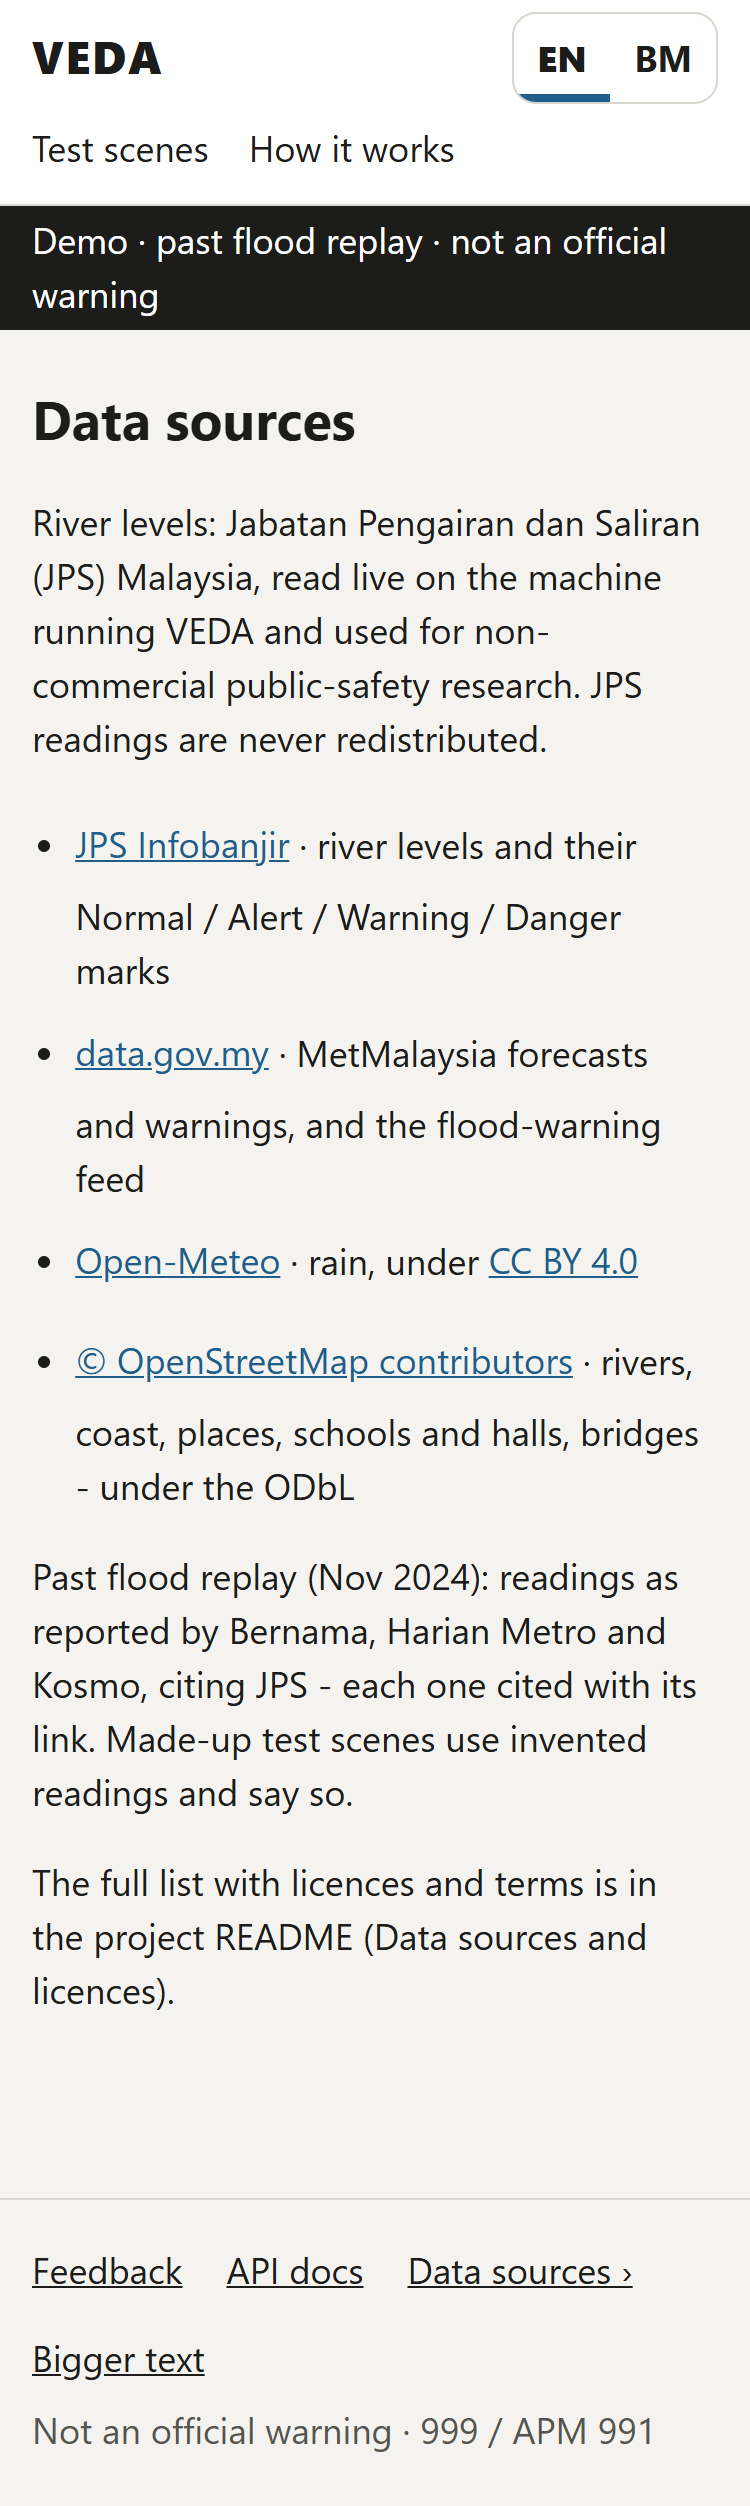
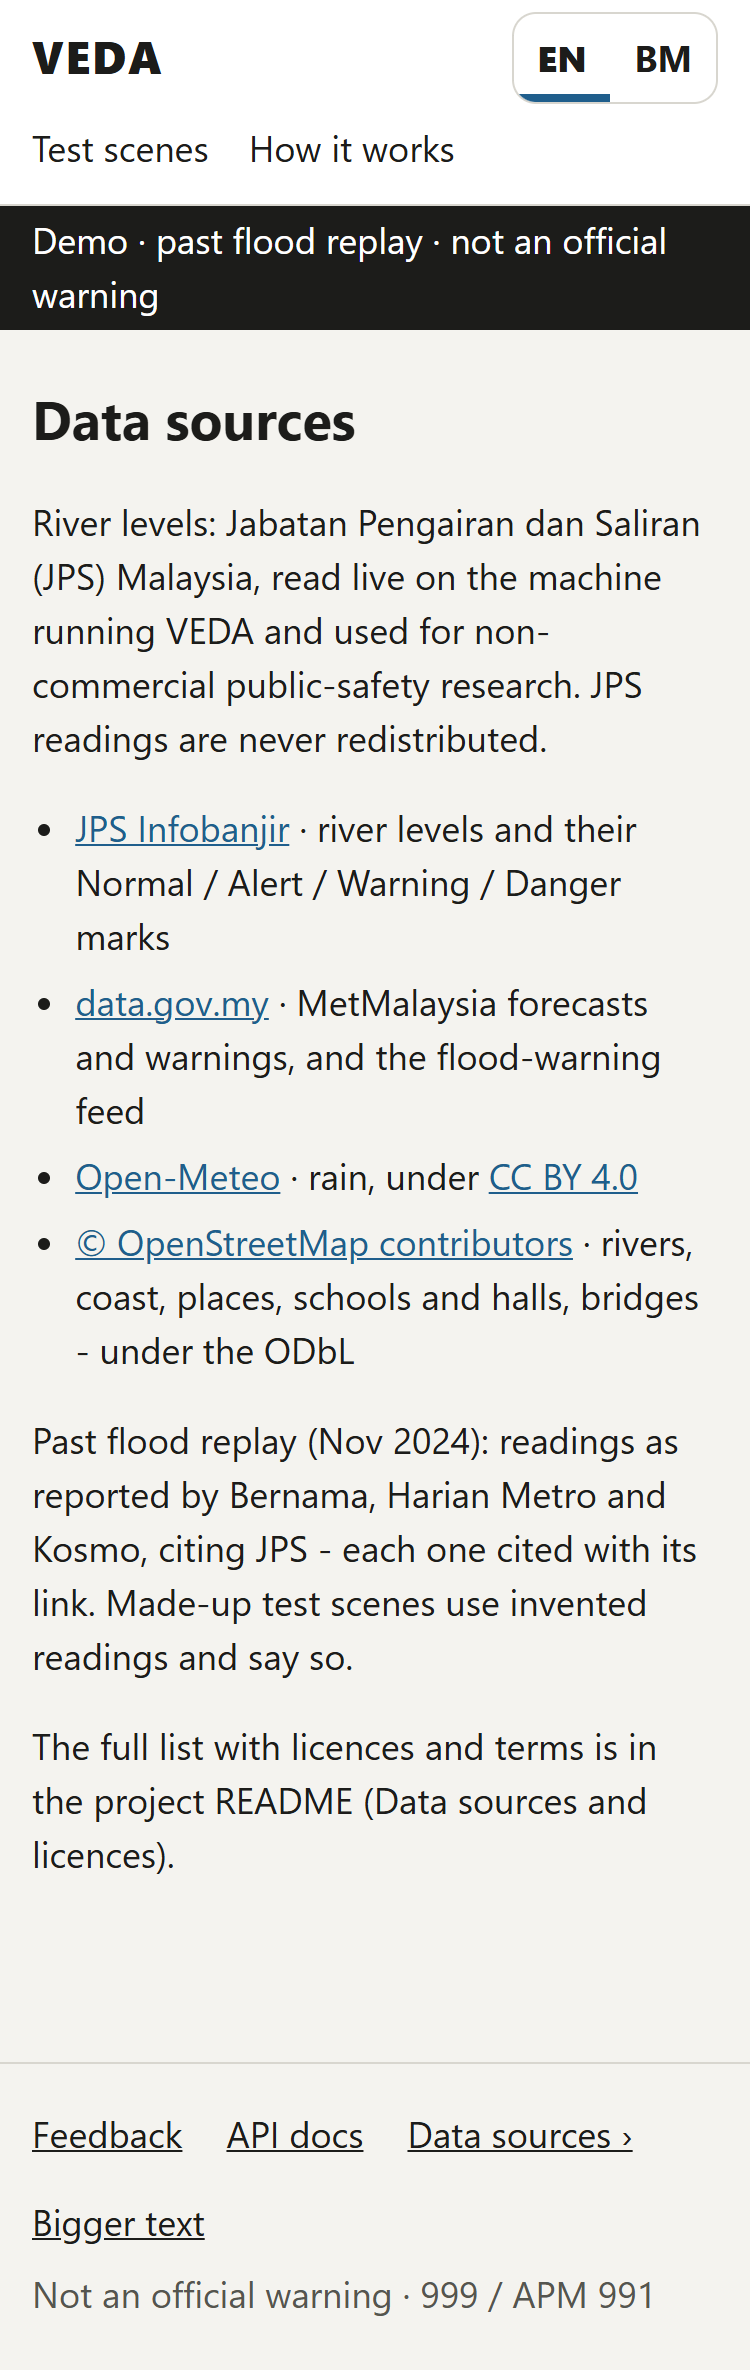
fix: B-96 /live: Live · Replay and 1× · 4× as segmented controls (selected bold + outlined, nothing filled); demo opens in Replay on the 24 Oct 20:10 Wakaf Bharu run, waiting for Play, with "Press play to watch each agent step, recorded live"; controls above the panels; BM "· Tukar" never breaks; /s
Local before commit: 1068 passed, 13 skipped; evals 41/41.

diff --git a/app/web/live.html b/app/web/live.html
@@ -25,7 +25,10 @@
   .lhead h1 { font-size: 1.2rem; margin: 0 auto 0 0; }
   button, select { font: inherit; min-height: 44px; padding: 8px 12px; border-radius: 10px; border: 1px solid var(--line);
                    background: var(--card); color: var(--fg); cursor: pointer; }
-  button[aria-pressed="true"] { background: var(--accent); color: var(--on-accent); border-color: var(--accent); }
+  /* B-96: a selected choice is bold + outlined, never filled - /live has no filled button */
+  button[aria-pressed="true"] { border: 3px solid var(--accent); font-weight: 800; }
+  .seg2 { display: inline-flex; gap: 6px; }
+  .hint { margin: 0 0 10px; font-weight: 600; }
   .wrap { display: grid; grid-template-columns: minmax(0, 1fr) 280px; gap: 16px; max-width: 1200px; margin: 0 auto; padding: 16px; }
   @media (max-width: 860px) { .wrap { grid-template-columns: 1fr; } aside { order: -1; } }
   .controls { display: flex; flex-wrap: wrap; gap: 8px; align-items: center; margin-bottom: 12px; }
@@ -65,6 +68,9 @@
   .note { color: var(--muted); }
   [hidden] { display: none !important; }
   main, aside { min-width: 0; }   /* B-96: no sideways scroll on a phone */
+  .top { max-width: 1200px; margin: 0 auto; padding: 16px 16px 0; }
+  .top .controls { margin-bottom: 8px; }
+  .controls select { min-width: 0; width: 100%; }
   #rec { max-width: 100%; }
 </style>
 </head>
@@ -75,15 +81,22 @@
   <h1>VEDA · live log</h1>
   <span class="note" id="h-note">The question itself is never shown here.</span>
 </div>
+<!-- B-96: the controls first on every width (in the demo, Play is what a visitor needs) -->
+<div class="top">
+  <div class="controls">
+    <span class="seg2" role="group" aria-label="Live or replay">
+      <button type="button" id="b-live" aria-pressed="true">Live</button>
+      <button type="button" id="b-replay" aria-pressed="false">Replay</button></span>
+    <select id="rec" aria-label="Recorded run" hidden></select>
+    <span class="seg2" role="group" aria-label="Speed" id="speeds" hidden>
+      <button type="button" data-speed="1" aria-pressed="true">1×</button>
+      <button type="button" data-speed="4" aria-pressed="false">4×</button></span>
+    <button type="button" id="b-play" hidden>Play ▶</button>
+  </div>
+  <p class="hint" id="hint" hidden></p>
+</div>
 <div class="wrap">
   <main>
-    <div class="controls">
-      <button type="button" id="b-live" aria-pressed="true">Live</button>
-      <select id="rec" aria-label="Recorded run"><option value="">Replay a recorded run…</option></select>
-      <button type="button" data-speed="1" aria-pressed="true">1×</button>
-      <button type="button" data-speed="4" aria-pressed="false">4×</button>
-      <button type="button" id="b-play" hidden>Play</button>
-    </div>
     <p id="status" role="status" aria-live="polite"></p>
     <p class="note" id="rnote" hidden></p>
     <ol id="feed"></ol>
@@ -99,15 +112,18 @@
 const $ = (id) => document.getElementById(id);
 // The two public header lines follow the main page's EN | BM toggle (wording review 24 Oct); the log stays English.
 const HEAD = {
-  en: { note: "The question itself is never shown here.",
+  en: { hint: "Press play to watch each agent step, recorded live.",
+        note: "The question itself is never shown here.",
         waiting: "Waiting for a question… Ask one on VEDA's main page and every step appears here as it happens." },
-  ms: { note: "Soalan itu sendiri tidak pernah ditunjukkan di sini.",
+  ms: { hint: "Tekan main untuk melihat setiap langkah ejen, dirakam secara langsung.",
+        note: "Soalan itu sendiri tidak pernah ditunjukkan di sini.",
         waiting: "Menunggu soalan… Tanya di halaman utama VEDA dan setiap langkah akan muncul di sini ketika ia berlaku." },
 };
 const pageLang = () => { try { return localStorage.getItem("veda.lang") === "ms" ? "ms" : "en"; } catch (e) { return "en"; } };
 function applyHeadLang() {
   const h = HEAD[pageLang()];
   $("h-note").textContent = h.note; $("h-note").lang = pageLang();
+  $("hint").textContent = h.hint; $("hint").lang = pageLang();
   if (Object.values(HEAD).some((x) => x.waiting === $("status").textContent)) $("status").textContent = h.waiting;
 }
 window.addEventListener("storage", (e) => { if (e.key === "veda.lang") applyHeadLang(); });
@@ -206,8 +222,8 @@ function add(rec) {
 // ---------- live ----------
 function goLive() {
   stopReplay();
-  mode = "live"; $("b-live").setAttribute("aria-pressed", "true"); $("rec").value = ""; $("rnote").hidden = true;
-  $("b-play").hidden = true;
+  mode = "live"; pressMode(); $("rnote").hidden = true;
+  $("b-play").hidden = true; $("hint").hidden = true;
   $("feed").replaceChildren(); whoPanel();
   $("status").textContent = HEAD[pageLang()].waiting;
   if (source) source.close();
@@ -218,13 +234,25 @@ function goLive() {
 
 // ---------- replay of a recorded run (its own timestamps; Nemotron calls wait as long as they took) ----------
 function stopReplay() { clearTimeout(timer); timer = null; clearWait(); }
-function loadRecorded(records, note) {
+function pressMode() {          // Live · Replay: the replay's run list and speed show only in Replay
+  $("b-live").setAttribute("aria-pressed", String(mode === "live"));
+  $("b-replay").setAttribute("aria-pressed", String(mode === "replay"));
+  $("rec").hidden = $("speeds").hidden = mode !== "replay";
+}
+function loadRecorded(records, note, wait) {
   if (source) { source.close(); source = null; }
   stopReplay();
-  mode = "replay"; $("b-live").setAttribute("aria-pressed", "false");
+  mode = "replay"; pressMode();
   recorded = records; $("b-play").hidden = false;
   $("rnote").hidden = !note; $("rnote").textContent = note ? "Recorded run: " + note : "";
+  $("hint").hidden = !wait;
+  if (wait) { $("feed").replaceChildren(); whoPanel(); $("status").textContent = ""; return; }   // demo: press Play
   play();
+}
+async function loadChosen(wait) {
+  if (!$("rec").value) return;
+  const r = await fetch("/trace/recorded/" + encodeURIComponent($("rec").value)).then((x) => x.json());
+  loadRecorded(r.records || [], r.note, wait);
 }
 function play() {
   stopReplay();
@@ -245,26 +273,27 @@ function play() {
 }
 
 $("b-live").addEventListener("click", goLive);
-$("b-play").addEventListener("click", () => recorded && play());
+$("b-play").addEventListener("click", () => { $("hint").hidden = true; if (recorded) play(); });
+$("b-replay").addEventListener("click", () => loadChosen(true));
 function setSpeed(s) {
   speed = s === 4 ? 4 : 1;
   document.querySelectorAll("[data-speed]").forEach((x) => x.setAttribute("aria-pressed", String(Number(x.dataset.speed) === speed)));
 }
 document.querySelectorAll("[data-speed]").forEach((b) => b.addEventListener("click", () => setSpeed(Number(b.dataset.speed))));
-$("rec").addEventListener("change", async () => {
-  if (!$("rec").value) { goLive(); return; }
-  const r = await fetch("/trace/recorded/" + encodeURIComponent($("rec").value)).then((x) => x.json());
-  loadRecorded(r.records || [], r.note);
-});
+$("rec").addEventListener("change", () => loadChosen(true));
 
 whoPanel();
-fetch("/trace/recorded").then((r) => r.json()).then((list) => {
+// B-96: the run a judge should see first - the Critic asking the Data agent for more data (Wakaf Bharu, 24 Oct 20:10)
+const FEATURED = "20261024-201011";
+const listed = fetch("/trace/recorded").then((r) => r.json()).then((list) => {
   list.forEach((x) => {
     const o = document.createElement("option");
     o.value = x.name;
     o.textContent = `${(x.started || "").replace("T", " ").replace("Z", " UTC")} · ${x.question || x.run_id}`;
     $("rec").append(o);
   });
+  const f = list.find((x) => (x.name || "").includes(FEATURED));
+  if (f) $("rec").value = f.name;
 }).catch(() => {});
 const params = new URLSearchParams(location.search);
 if (params.get("run")) {  // one run from logs/ (this computer only), replayed from its trace
@@ -278,7 +307,10 @@ if (params.get("run")) {  // one run from logs/ (this computer only), replayed f
   fetch("/trace/recorded/" + encodeURIComponent(params.get("recorded"))).then((r) => r.json())
     .then((b) => { if (params.get("speed")) setSpeed(Number(params.get("speed"))); loadRecorded(b.records || [], b.note); });
 } else {
-  goLive();
+  // B-96: in the demo (offline) nothing runs live - open in Replay on the featured run, waiting for Play
+  fetch("/health").then((r) => r.json()).then((h) => {
+    if (h.sample_mode) listed.then(() => loadChosen(true)); else goLive();
+  }).catch(() => goLive());
 }
 applyHeadLang();
 </script>

diff --git a/app/web/index.html b/app/web/index.html
@@ -57,7 +57,8 @@
   a { color: var(--accent); }
   [hidden] { display: none !important; }
   .card { background: var(--card); border: 1px solid var(--line); border-radius: 14px; padding: 14px 16px; margin: 12px 0; }
-  .moment-line { color: var(--muted); margin: 0 0 4px; }        /* B-96: plain grey text, never a dashed pill */
+  .moment-line { color: var(--muted); margin: 0 0 4px; }
+  .nowrap { white-space: nowrap; }                                  /* "· Change" never breaks */        /* B-96: plain grey text, never a dashed pill */
   .chip { display: inline-block; border: 2px dashed var(--muted); border-radius: 999px; padding: 2px 12px; font-weight: 700;
           color: var(--muted); }
   /* the replay moment (demo) */
@@ -387,8 +388,8 @@
 
 <!-- 3. Answer -->
 <section id="s-answer" hidden>
-  <p id="a-label" class="moment-line" hidden><span id="a-label-text"></span><span id="a-change-dot" aria-hidden="true"
-     hidden> · </span><button type="button" class="linkish" id="a-change" data-t="change" hidden></button></p>
+  <p id="a-label" class="moment-line" hidden><span id="a-label-text"></span><span class="nowrap"><span id="a-change-dot"
+     aria-hidden="true" hidden> · </span><button type="button" class="linkish" id="a-change" data-t="change" hidden></button></span></p>
   <p class="place" id="a-place"></p>
   <!-- v2 (Cowork blueprint 24 Oct): level word + "Level n of 4" + ONE action line; never colour alone -->
   <div class="verdict" id="a-badge" role="group"></div>

diff --git a/app/web/sources.html b/app/web/sources.html
@@ -19,7 +19,8 @@
   ul { padding-left: 1.2em; }
   li { margin: 6px 0; }
   a { color: var(--accent); }
-  li a { display: inline-flex; align-items: center; min-height: 44px; }
+  /* 44 px tap targets that keep the normal line height (padding offset by a negative margin) */
+  li a { display: inline-block; padding: 10px 0; margin: -10px 0; }
 </style>
 </head>
 <body>

diff --git a/tests/test_web_b96.py b/tests/test_web_b96.py
@@ -42,3 +42,21 @@ def test_fix_round_plain_replay_line_end_links_and_one_disclaimer():
     assert PAGE.split('id="s-sos"')[0].count('data-t="disclaimer"') == 0 and 'data-t="footer"' not in PAGE
     assert 'i30_how: "Cara VEDA berfungsi: ejen, rakaman sebenar, API ›"' in PAGE
     assert 'useful: "Was this useful? Tell us"' in PAGE and '$("a-useful").hidden = !publicDemo;' in PAGE
+
+
+LIVE = (config.ROOT / "app" / "web" / "live.html").read_text(encoding="utf-8")
+
+
+def test_live_has_no_filled_button_and_opens_on_the_featured_run_in_the_demo():
+    assert 'button[aria-pressed="true"] { border: 3px solid var(--accent); font-weight: 800; }' in LIVE
+    assert "background: var(--accent)" not in LIVE                                   # nothing filled
+    assert 'id="b-replay"' in LIVE and 'const FEATURED = "20261024-201011";' in LIVE
+    assert 'if (h.sample_mode) listed.then(() => loadChosen(true)); else goLive();' in LIVE   # live mode unchanged
+    assert 'hint: "Press play to watch each agent step, recorded live."' in LIVE
+    assert LIVE.index('id="b-play"') < LIVE.index('<div class="wrap">')               # Play before the panel
+
+
+def test_bm_change_link_never_breaks_and_sources_lines_keep_their_height():
+    assert '<span class="nowrap"><span id="a-change-dot"' in PAGE
+    src = (config.ROOT / "app" / "web" / "sources.html").read_text(encoding="utf-8")
+    assert "li a { display: inline-block; padding: 10px 0; margin: -10px 0; }" in src
